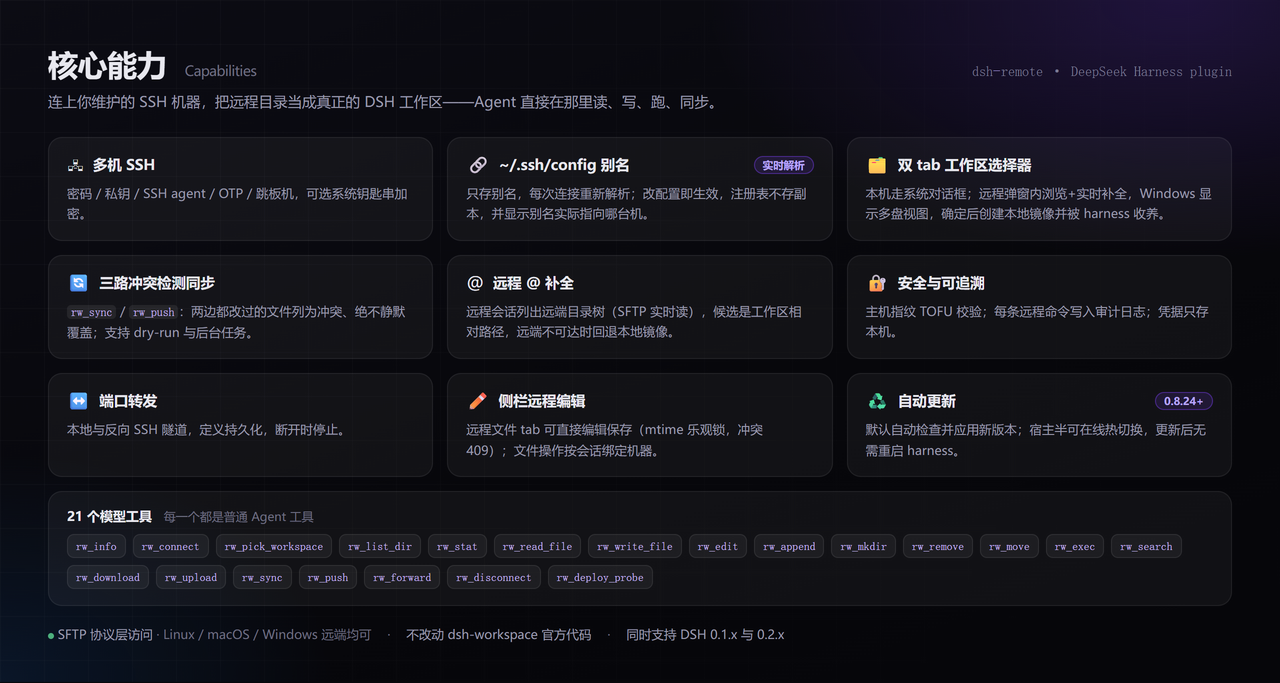
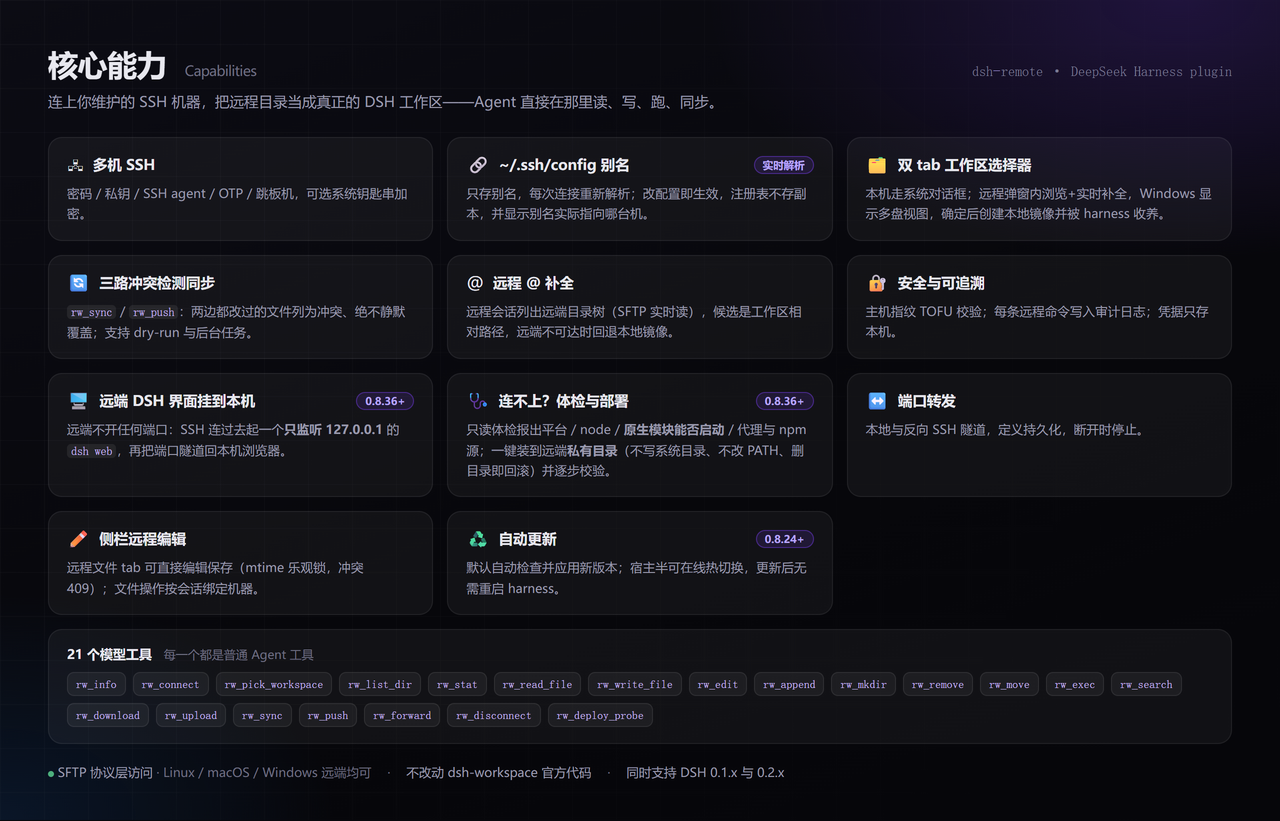
docs: README 与站点补上「远端 DSH 界面 + 一键体检部署」这项能力，并重做配图
上一轮我只把「20 个工具」改成 21，**没有把这项新能力写进任何介绍，配图也没体现** ——
用户点出来后才补。这次把**所有介绍面**都过一遍，不只是数字。

## 文字

- `README.md` / `README.en.md`
  - 开头介绍段加一段：**反过来也成立 —— 可以把远端那台机器的 DSH 网页界面当成本机
    浏览器里的一个页面打开**（同样不开任何端口），连不上时还有一键体检与部署；
  - 功能要点里加两条（`0.8.36+`）：远端 DSH 界面挂到本机、连不上时一键体检与部署；
  - 修正工具清单：`20 个模型工具` → **21**，并补上 `rw_deploy_probe`；
  - 配图 alt 文案同步（中英），设置页 alt 也点名新卡片。
- `docs/index.html`（Pages 主页）
  - 「它能做什么」卡片加两张：**远端 DSH 界面挂到本机**、**连不上？一键体检与部署**（中英双语）；
  - 能力总览图注补上新能力与 21 个工具；设置页图注补上「远程 DSH 界面」。
- `docs/features.html`（能力总览**配图的渲染源**）加两张卡并补 `rw_deploy_probe` chip。

## 配图（两张都重做了）

- **features.png**：按既有管线 `scripts/render-doc-image.mjs` 重渲染，
  1280x683 → **1280x821**（多出的高度就是两张新卡）。
- **settings-panel.png**：旧图是 09/30 截的，**早于新卡片存在**，必须重截。
  重截时踩到三个坑，都已解决：
  1. 新建的 demo home 默认是**浅色主题**（body 白底），而所有已提交的配图都是深色 ——
     直接截会像另一个产品。用 CDP `Emulation.setEmulatedMedia` 强制 `prefers-color-scheme: dark`，
     并且**每张切片前都重新断言**（失败样本：`setEmulatedMedia` 是会话级的，
     跨脚本运行截出的后两张切片整张是白的）；
  2. 面板在**固定 800x800 的弹窗**里，内部滚动区只有 746px，而内容是 **1509px** ——
     单张截图**装不下**（先前的尝试静默产出了下半张空白的图）。改为按偏移量**分片滚动后拼接**，
     每片记录**实测**的 scrollTop（元素会钳制请求值），拼接按实测偏移取值；
  3. CDP `clip.scale` 会**覆盖** devicePixelRatio，切片实际是 1x 而非 2x ——
     拼接脚本改为从字节推导有效缩放，而不是假定 dpr。
  收尾验证（我读不了图，只能靠测量）：1509/1509 行全部覆盖、四边**0 个高亮像素**；
  再用 **DOM 自身的分段偏移**做交叉验证 —— 每个段落在其真实位置都有文字墨迹，
  其中两张新卡分别在 y=640..848 与 y=860..990，图里对应位置实测墨迹 4655 / 2545 像素。
- 顺手修 `width` 属性：新图宽 612，README 里还写着 640（会**放大而糊掉**）——
[…]

diff --git a/docs/index.html b/docs/index.html
@@ -203,6 +203,12 @@
       <div class="card"><span class="ic">🔐</span>
         <h3 class="t" data-zh="凭据留在本机" data-en="Credentials stay local">凭据留在本机</h3>
         <p class="t" data-zh="密码可存系统钥匙串，主机指纹做 TOFU 校验，命令记入审计日志；私钥内容永不离开你的机器。" data-en="Passwords in the OS keychain when available, TOFU host-key verification, a command audit log, and keys never leave your machine.">密码可存系统钥匙串，主机指纹做 TOFU 校验，命令记入审计日志；私钥内容永不离开你的机器。</p></div>
+      <div class="card"><span class="ic">🖥</span>
+        <h3 class="t" data-zh="远端 DSH 界面挂到本机" data-en="Remote DSH Web UI, locally">远端 DSH 界面挂到本机</h3>
+        <p class="t" data-zh="不用在远端开任何端口：插件主动 SSH 连过去，在远端<b>只监听 <code>127.0.0.1</code></b> 地起一个 <code>dsh web</code>，再把端口经隧道搬回本机。地址带一次性登录令牌，仅本机使用。" data-en="Nothing to expose on the remote: the plugin SSHes out, starts a <code>dsh web</code> there bound to <b><code>127.0.0.1</code> only</b>, and tunnels its port back here. The URL carries a one-time login token, for this machine only.">不用在远端开任何端口：插件主动 SSH 连过去，在远端<b>只监听 <code>127.0.0.1</code></b> 地起一个 <code>dsh web</code>，再把端口经隧道搬回本机。地址带一次性登录令牌，仅本机使用。</p></div>
+      <div class="card"><span class="ic">🩺</span>
+        <h3 class="t" data-zh="连不上？一键体检与部署" data-en="Connect fails? Check &amp; deploy">连不上？一键体检与部署</h3>
+        <p class="t" data-zh="<b>连不上大多不是插件的问题，而是远端 dsh 的版本或环境不对。</b>体检（只读）报出平台 / node / <b>原生模块能否启动</b> / 代理与 npm 源；「部署并验证」装到远端<b>私有目录</b>（不写系统目录、不改 PATH、不覆盖你在用的版本，删目录即回滚）并逐步校验。" data-en="<b>A failed connect is usually the remote dsh version or environment, not the plugin.</b> The read-only check reports platform / node / <b>whether the native module can load</b> / proxy and npm registry; &quot;Deploy &amp; verify&quot; installs into a remote <b>private directory</b> (no system dir, no PATH change, no replacing your version — deleting it rolls back) and verifies each step."><b>连不上大多不是插件的问题，而是远端 dsh 的版本或环境不对。</b>体检（只读）报出平台 / node / <b>原生模块能否启动</b> / 代理与 npm 源；「部署并验证」装到远端<b>私有目录</b>（不写系统目录、不改 PATH、不覆盖你在用的版本，删目录即回滚）并逐步校验。</p></div>
       <div class="card"><span class="ic">♻</span>
         <h3 class="t" data-zh="自动更新" data-en="Self-updating">自动更新</h3>
         <p class="t" data-zh="0.8.27 起默认自动检查并应用新版本；0.8.24 起可热切换宿主半——更新后无需重启 harness。" data-en="Since 0.8.27 it checks and applies new releases by default; since 0.8.24 it hot-swaps its own host half — an update takes effect without restarting the harness.">0.8.27 起默认自动检查并应用新版本；0.8.24 起可热切换宿主半——更新后无需重启 harness。</p></div>
@@ -235,7 +241,7 @@
          所以拆开：能力总览单独全宽，两张界面图并排（各自图注说明）。 -->
     <figure class="wide">
       <img src="./shots/features.png" alt="核心能力总览" loading="lazy"/>
-      <figcaption class="t" data-zh="<b>能力总览</b> —— 多机 SSH / 别名实时解析 / 三路同步 / 远程 @ 补全 / 端口转发 / 自动更新，以及 21 个 <code>rw_*</code> 工具。" data-en="<b>Capabilities</b> — multi-machine SSH, live alias resolution, three-way sync, remote @ completion, port forwarding, self-update, and the 21 rw_* tools."><b>能力总览</b> —— 多机 SSH / 别名实时解析 / 三路同步 / 远程 @ 补全 / 端口转发 / 自动更新，以及 21 个 <code>rw_*</code> 工具。</figcaption>
+      <figcaption class="t" data-zh="<b>能力总览</b> —— 多机 SSH / 别名实时解析 / 三路同步 / 远程 @ 补全 / <b>远端 DSH 界面挂到本机</b> / <b>体检与一键部署</b> / 端口转发 / 自动更新，以及 21 个 <code>rw_*</code> 工具。" data-en="<b>Capabilities</b> — multi-machine SSH, live alias resolution, three-way sync, remote @ completion, <b>a remote DSH Web UI in your local browser</b>, <b>health check &amp; one-click deploy</b>, port forwarding, self-update, and the 21 rw_* tools."><b>能力总览</b> —— 多机 SSH / 别名实时解析 / 三路同步 / 远程 @ 补全 / <b>远端 DSH 界面挂到本机</b> / <b>体检与一键部署</b> / 端口转发 / 自动更新，以及 21 个 <code>rw_*</code> 工具。</figcaption>
     </figure>
 
     <!-- 竖向排列，各自原始比例（不并排、不放大：两张比例差太大，并排会一高一矮） -->
@@ -245,8 +251,8 @@
         <figcaption class="t" data-zh="<b>工作区选择器</b> —— 原生弹窗多了「远程」tab；可浏览并自动补全远程目录。" data-en="<b>Workspace picker</b> — the native modal gains a 远程 (remote) tab; browse and autocomplete remote directories."><b>工作区选择器</b> —— 原生弹窗多了「远程」tab；可浏览并自动补全远程目录。</figcaption>
       </figure>
       <figure>
-        <img src="./shots/settings-panel.png" alt="多机 SSH 列表与设置" loading="lazy" style="max-width:640px"/>
-        <figcaption class="t" data-zh="<b>设置 → 远程工作区</b> —— 机器列表、高级配置（私钥/跳板机/agent）、连接体检、端口转发、审计日志、更新。" data-en="<b>Settings → 远程工作区</b> — machine list, advanced config (key / jump host / agent), connection check, port forwarding, audit log, update."><b>设置 → 远程工作区</b> —— 机器列表、高级配置（私钥/跳板机/agent）、连接体检、端口转发、审计日志、更新。</figcaption>
+        <img src="./shots/settings-panel.png" alt="多机 SSH 列表与设置" loading="lazy" style="max-width:612px"/>
+        <figcaption class="t" data-zh="<b>设置 → 远程工作区</b> —— 机器列表、高级配置（私钥/跳板机/agent）、连接体检、远程 DSH 界面、端口转发、审计日志、更新。" data-en="<b>Settings → 远程工作区</b> — machine list, advanced config (key / jump host / agent), connection check, remote DSH Web UI, port forwarding, audit log, update."><b>设置 → 远程工作区</b> —— 机器列表、高级配置（私钥/跳板机/agent）、连接体检、端口转发、审计日志、更新。</figcaption>
       </figure>
     </div>
   </div>

diff --git a/test/docs-images.test.js b/test/docs-images.test.js
@@ -111,6 +111,42 @@ test('the capability overview image is referenced by both READMEs', () => {
   }
 })
 
+test('a rendered doc image is not older than the HTML it is generated from', () => {
+  // 回归（本会话差点发出）：我给能力总览加了新卡片、改了 docs/features.html，
+  // 但忘了重渲染 features.png —— 于是 README 的图注说"有体检与部署"，图上没有，
+  // 图和文字开始互相矛盾。当时**没有任何守卫会拦住这件事**：图片存在、尺寸合理、
+  // 引用也没断，所有既有判据都是绿的。
+  //
+  // 判据：配图的 mtime 不能早于它的渲染源。允许一个小容差，因为 `git checkout`
+  // 会让同一次提交里的文件带上几乎相同的 mtime，顺序不保证。
+  const PAIRS = [
+    ['docs/features.html', 'docs/shots/features.png'],
+    ['docs/cover.html', 'docs/cover.png'],
+  ]
+  const TOLERANCE_MS = 2000
+  const stale = []
+  for (const [src, png] of PAIRS) {
+    const s = path.join(root, src)
+    const p = path.join(root, png)
+    if (!existsSync(s) || !existsSync(p)) continue
+    const sm = statSync(s).mtimeMs
+    const pm = statSync(p).mtimeMs
+    if (pm + TOLERANCE_MS < sm) {
+      stale.push(`${png} (${new Date(pm).toISOString()}) is older than ${src} (${new Date(sm).toISOString()}) `
+        + `— re-render: node scripts/render-doc-image.mjs ${src} ${png}`)
+    }
+  }
+  assert.deepEqual(stale, [], `doc image is stale relative to its source:\n  ${stale.join('\n  ')}`)
+})
+
+test('the freshness check actually detects a stale image', () => {
+  // 负对照：构造一个"源比图新"的情形，检查逻辑必须报出来。
+  const detect = (srcM, pngM, tol = 2000) => (pngM + tol < srcM ? 'stale' : 'fresh')
+  assert.equal(detect(1000, 2000), 'fresh', 'image newer than source is fine')
+  assert.equal(detect(5000, 1000), 'stale', 'source edited 4s later must be reported')
+  assert.equal(detect(1000 + 1000, 1000), 'fresh', 'small mtime skew is tolerated')
+})
+
 test('a width= attribute never upscales the bitmap', () => {
   // 回归：图片重截后尺寸变了（settings 632x1325 -> 535x640、picker 612x308 -> 595x224），
   // 而 README 里的 width 属性还是旧值 —— GitHub 会按属性把位图放大，直接糊掉。

diff --git a/docs/features.html b/docs/features.html
@@ -155,6 +155,14 @@
         <p>主机指纹 TOFU 校验；每条远程命令写入审计日志；凭据只存本机。</p>
       </div>
       <div class="card">
+        <div class="row"><span class="ic">🖥</span><h3>远端 DSH 界面挂到本机</h3><span class="badge">0.8.36+</span></div>
+        <p>远端不开任何端口：SSH 连过去起一个<strong>只监听 127.0.0.1</strong> 的 <code>dsh web</code>，再把端口隧道回本机浏览器。</p>
+      </div>
+      <div class="card">
+        <div class="row"><span class="ic">🩺</span><h3>连不上？体检与部署</h3><span class="badge">0.8.36+</span></div>
+        <p>只读体检报出平台 / node / <strong>原生模块能否启动</strong> / 代理与 npm 源；一键装到远端<strong>私有目录</strong>（不写系统目录、不改 PATH、删目录即回滚）并逐步校验。</p>
+      </div>
+      <div class="card">
         <div class="row"><span class="ic">↔</span><h3>端口转发</h3></div>
         <p>本地与反向 SSH 隧道，定义持久化，断开时停止。</p>
       </div>

diff --git a/test/readme-parity.test.js b/test/readme-parity.test.js
@@ -114,7 +114,13 @@ test('every config key documented in the table exists in the schema', () => {
 
 test('both READMEs list the same rw_* tools', () => {
   assert.deepEqual(tools(zh), tools(en), 'tool lists must agree')
-  assert.equal(tools(zh).length, 20, `expected 20 rw_* tools, found ${tools(zh).length}`)
+  // Compare against the PLUGIN, not a hardcoded number. A literal here only
+  // proves the author updated the test when it bothered them; comparing to the
+  // registered tools proves the docs are actually right.
+  const src = readFileSync(path.join(root, 'lib', 'index.js'), 'utf8')
+  const real = [...new Set([...src.matchAll(/name:\s*'(rw_[a-z_]+)'/g)].map((m) => m[1]))].sort()
+  assert.deepEqual([...tools(zh)].sort(), real,
+    'the README tool list must match the tools the plugin registers')
 })
 
 test('the DSH compatibility section is present in both', () => {

diff --git a/README.en.md b/README.en.md
@@ -20,6 +20,8 @@ Manage several SSH machines, then pick a **remote workspace** (or a **local** on
 
 The harness Web UI intentionally binds `127.0.0.1` (the CLI rejects `--host 0.0.0.0` for safety). This plugin goes the other way: **you connect out** to the machines you maintain, pick a workspace, and work in it through the normal DSH workspace + agent fs flows — no changes to `dsh-workspace` or the harness core.
 
+It works the other way too: **you can open the remote machine's own DSH Web UI as a page in your local browser** — again without exposing any port on the remote. And when a connection will not come up, a **one-click health check & deploy** repairs and verifies the remote environment for you.
+
 ## Data collection / telemetry
 
 One anonymous heartbeat per launch (at least 6 hours apart), used only to measure usage: **de-duplicated daily active installs, the version actually running, and platform distribution**. npm download counts are release-driven and include mirrors/crawlers, and GitHub clones include CI, so neither can answer that.
@@ -34,7 +36,7 @@ The heartbeat is fire-and-forget: it never blocks loading and failures are ignor
 
 **Settings → 远程工作区** — machine list, advanced config (key / jump host / agent), connection check, port forwarding, audit log, update:
 
-<img src="docs/shots/settings-panel.png" alt="dsh-remote settings: machine list, advanced config, port forwarding, audit log, update" width="640"/>
+<img src="docs/shots/settings-panel.png" alt="dsh-remote settings: machine list, advanced config, remote DSH Web UI, health check &amp; deploy, port forwarding, audit log, update" width="612"/>
 
 The native **"Add workspace"** flow — a centered modal with two tabs, opening on Local; here switched to **Remote**:
 
@@ -47,7 +49,7 @@ The native **"Add workspace"** flow — a centered modal with two tabs, opening 
 
 ## Features
 
-![Capabilities at a glance — multi-machine SSH, live alias resolution, the two-tab picker, three-way sync, remote @ completion, audit, port forwarding, sidebar editing, self-update, and the 21 rw_* tools](docs/shots/features.png)
+![Capabilities at a glance — multi-machine SSH, live alias resolution, the two-tab picker, three-way sync, remote @ completion, a remote DSH Web UI in your local browser, health check &amp; one-click deploy, audit, port forwarding, sidebar editing, self-update, and the 21 rw_* tools](docs/shots/features.png)
 
 The image above is the overview. What follows is only what the image does not make obvious.
 
@@ -60,11 +62,13 @@ The image above is the overview. What follows is only what the image does not ma
 
 **Settings** (machine list, connection check, port forwarding, audit log, update mode):
 
-<img src="docs/shots/settings-panel.png" alt="dsh-remote settings: machine list, advanced config, port forwarding, audit log, update" width="640"/>
+<img src="docs/shots/settings-panel.png" alt="dsh-remote settings: machine list, advanced config, remote DSH Web UI, health check &amp; deploy, port forwarding, audit log, update" width="612"/>
 
 The rest:
 
-- **20 model tools** (listed so they can be copied or searched): `rw_info`, `rw_connect`, `rw_pick_workspace`, `rw_list_dir`, `rw_stat`, `rw_read_file`, `rw_write_file`, `rw_edit`, `rw_append`, `rw_mkdir`, `rw_remove`, `rw_move`, `rw_exec`, `rw_search`, `rw_download`, `rw_upload`, `rw_sync`, `rw_push`, `rw_forward`, `rw_disconnect`.
+- **21 model tools** (listed so they can be copied or searched): `rw_info`, `rw_connect`, `rw_pick_workspace`, `rw_list_dir`, `rw_stat`, `rw_read_file`, `rw_write_file`, `rw_edit`, `rw_append`, `rw_mkdir`, `rw_remove`, `rw_move`, `rw_exec`, `rw_search`, `rw_download`, `rw_upload`, `rw_sync`, `rw_push`, `rw_forward`, `rw_disconnect`, `rw_deploy_probe`.
+- **Open a remote machine's DSH Web UI locally** (`0.8.36+`) — nothing has to be exposed on the remote: the plugin SSHes out, starts a `dsh web` there that binds **`127.0.0.1` only**, and tunnels its port back to a loopback port on this machine. The URL carries a one-time login token, consumed once by a redirect.
+- **One-click health check & deploy** (`0.8.36+`) — **a failed connection is usually the remote dsh version or environment, not the plugin.** The read-only check reports platform / node / npm / dsh version / **whether the native module can load** / proxy and npm registry, with a suggested fix; "Deploy & verify" installs into a remote **private directory** (no system directory, no PATH change, no replacing the version you use — deleting it is a complete rollback) and verifies step by step. If that still fails, the built-in `dsh-remote-deploy` skill takes over.
 - **Cross-platform remotes** — all file access is SFTP-protocol-level (no POSIX shell), so Linux/macOS/Windows remotes all work.
 - **Windows remotes** — the platform is auto-detected and commands go through `bash -s` over stdin, so quoting and backslash escaping are never an issue (`config.shell` can pin a path or `native` disables wrapping); `C:\Users\dev` and `/c/Users/dev` are both accepted.
 - **Async long tasks** — `rw_sync`/`rw_push` with `async: true` return a `taskId` with progress/result/cancel.

diff --git a/README.md b/README.md
@@ -20,6 +20,8 @@
 
 DSH 的 Web 界面刻意只监听 `127.0.0.1`（CLI 为安全拒绝 `--host 0.0.0.0`）。本插件反过来：**由你主动连出**到你维护的机器，选一个工作区，然后通过 DSH 原生的工作区 + 文件流来工作——**不改动 `dsh-workspace` 核心**。
 
+反过来也成立：**你可以把远端那台机器的 DSH 网页界面，当成本机浏览器里的一个页面打开**——同样不需要在远端开放任何端口（详见 [在本地打开远程机器上的 DSH 界面](#在本地打开远程机器上的-dsh-界面)）。连不上时还有**一键体检与部署**，它会替你把远端环境修好并验证。
+
 ## 数据采集 / 遥测
 
 每次启动发送一次匿名心跳（同一安装最少间隔 6 小时），只用于统计用量：**去重日活、实际在跑的版本、平台分布**。npm 下载量由发版驱动、且含镜像与爬虫，GitHub clone 混有 CI，都回答不了这些。
@@ -32,9 +34,9 @@ DSH 的 Web 界面刻意只监听 `127.0.0.1`（CLI 为安全拒绝 `--host 0.0.
 
 ## 界面预览
 
-**设置 → 远程工作区** —— 多机列表、高级配置（私钥/跳板机/agent）、连接体检、端口转发、审计日志、更新：
+**设置 → 远程工作区** —— 多机列表、高级配置（私钥/跳板机/agent）、连接体检、远程 DSH 界面、端口转发、审计日志、更新：
 
-<img src="docs/shots/settings-panel.png" alt="dsh-remote 设置页：机器列表、高级配置、端口转发、审计日志、更新" width="640"/>
+<img src="docs/shots/settings-panel.png" alt="dsh-remote 设置页：机器列表、高级配置、远程 DSH 界面、体检与部署、端口转发、审计日志、更新" width="612"/>
 
 原生 **「Add workspace / 选择工作区」** 流程 —— 居中弹窗、两个 tab，默认落在「本机」；切到**「远程」**：
 
@@ -47,13 +49,15 @@ DSH 的 Web 界面刻意只监听 `127.0.0.1`（CLI 为安全拒绝 `--host 0.0.
 
 ## 功能
 
-![核心能力总览 — 多机 SSH / 别名实时解析 / 双 tab 选择器 / 三路同步 / 远程 @ 补全 / 安全审计 / 端口转发 / 侧栏编辑 / 自动更新，以及 21 个 rw_* 工具](docs/shots/features.png)
+![核心能力总览 — 多机 SSH / 别名实时解析 / 双 tab 选择器 / 三路同步 / 远程 @ 补全 / 远端 DSH 界面挂到本机 / 体检与一键部署 / 安全审计 / 端口转发 / 侧栏编辑 / 自动更新，以及 21 个 rw_* 工具](docs/shots/features.png)
 
 上图是能力总览；下面只列**上图没说清、但用起来需要知道**的部分。
 
 其余要点：
 
-- **20 个模型工具**（便于复制/检索）：`rw_info`、`rw_connect`、`rw_pick_workspace`、`rw_list_dir`、`rw_stat`、`rw_read_file`、`rw_write_file`、`rw_edit`、`rw_append`、`rw_mkdir`、`rw_remove`、`rw_move`、`rw_exec`、`rw_search`、`rw_download`、`rw_upload`、`rw_sync`、`rw_push`、`rw_forward`、`rw_disconnect`。
+- **21 个模型工具**（便于复制/检索）：`rw_info`、`rw_connect`、`rw_pick_workspace`、`rw_list_dir`、`rw_stat`、`rw_read_file`、`rw_write_file`、`rw_edit`、`rw_append`、`rw_mkdir`、`rw_remove`、`rw_move`、`rw_exec`、`rw_search`、`rw_download`、`rw_upload`、`rw_sync`、`rw_push`、`rw_forward`、`rw_disconnect`、`rw_deploy_probe`。
+- **把远端机器的 DSH 界面挂到本机**（`0.8.36+`）—— 不用在远端开任何端口：插件主动 SSH 连过去，在远端**只监听 `127.0.0.1`** 地起一个 `dsh web`，再把端口经隧道搬回本机的一个 loopback 端口。地址带一次性登录令牌，只在本机这次跳转里用一次。
+- **连不上时一键体检与部署**（`0.8.36+`）—— **连不上大多不是插件的问题，而是远端 dsh 的版本或环境不对**。体检（只读）会报出平台/node/npm/dsh 版本、**原生模块能否启动**、代理与 npm 源，并给出修复建议；「部署并验证」把它装到远端**私有目录**（不写系统目录、不改 PATH、不覆盖你在用的版本，删目录即回滚）并逐步校验。失败还能交给内置的 `dsh-remote-deploy` 技能排查。
 - **远端跨平台** —— 文件访问走 SFTP 协议层（不依赖 POSIX shell），Linux/macOS/Windows 远端都能列/读/写/搜索/同步。
 - **Windows 主机** —— 自动探测平台并定位 Git Bash，命令经 `bash -s` 走 stdin 执行，不受引号/反斜杠转义困扰（`config.shell` 可指定或设 `native` 关闭）；`C:\Users\dev` 与 `/c/Users/dev` 两种写法都接受。
 - **长任务异步化** —— `rw_sync`/`rw_push` 传 `async: true` 返回 `taskId`，可查询进度/结果/取消。
